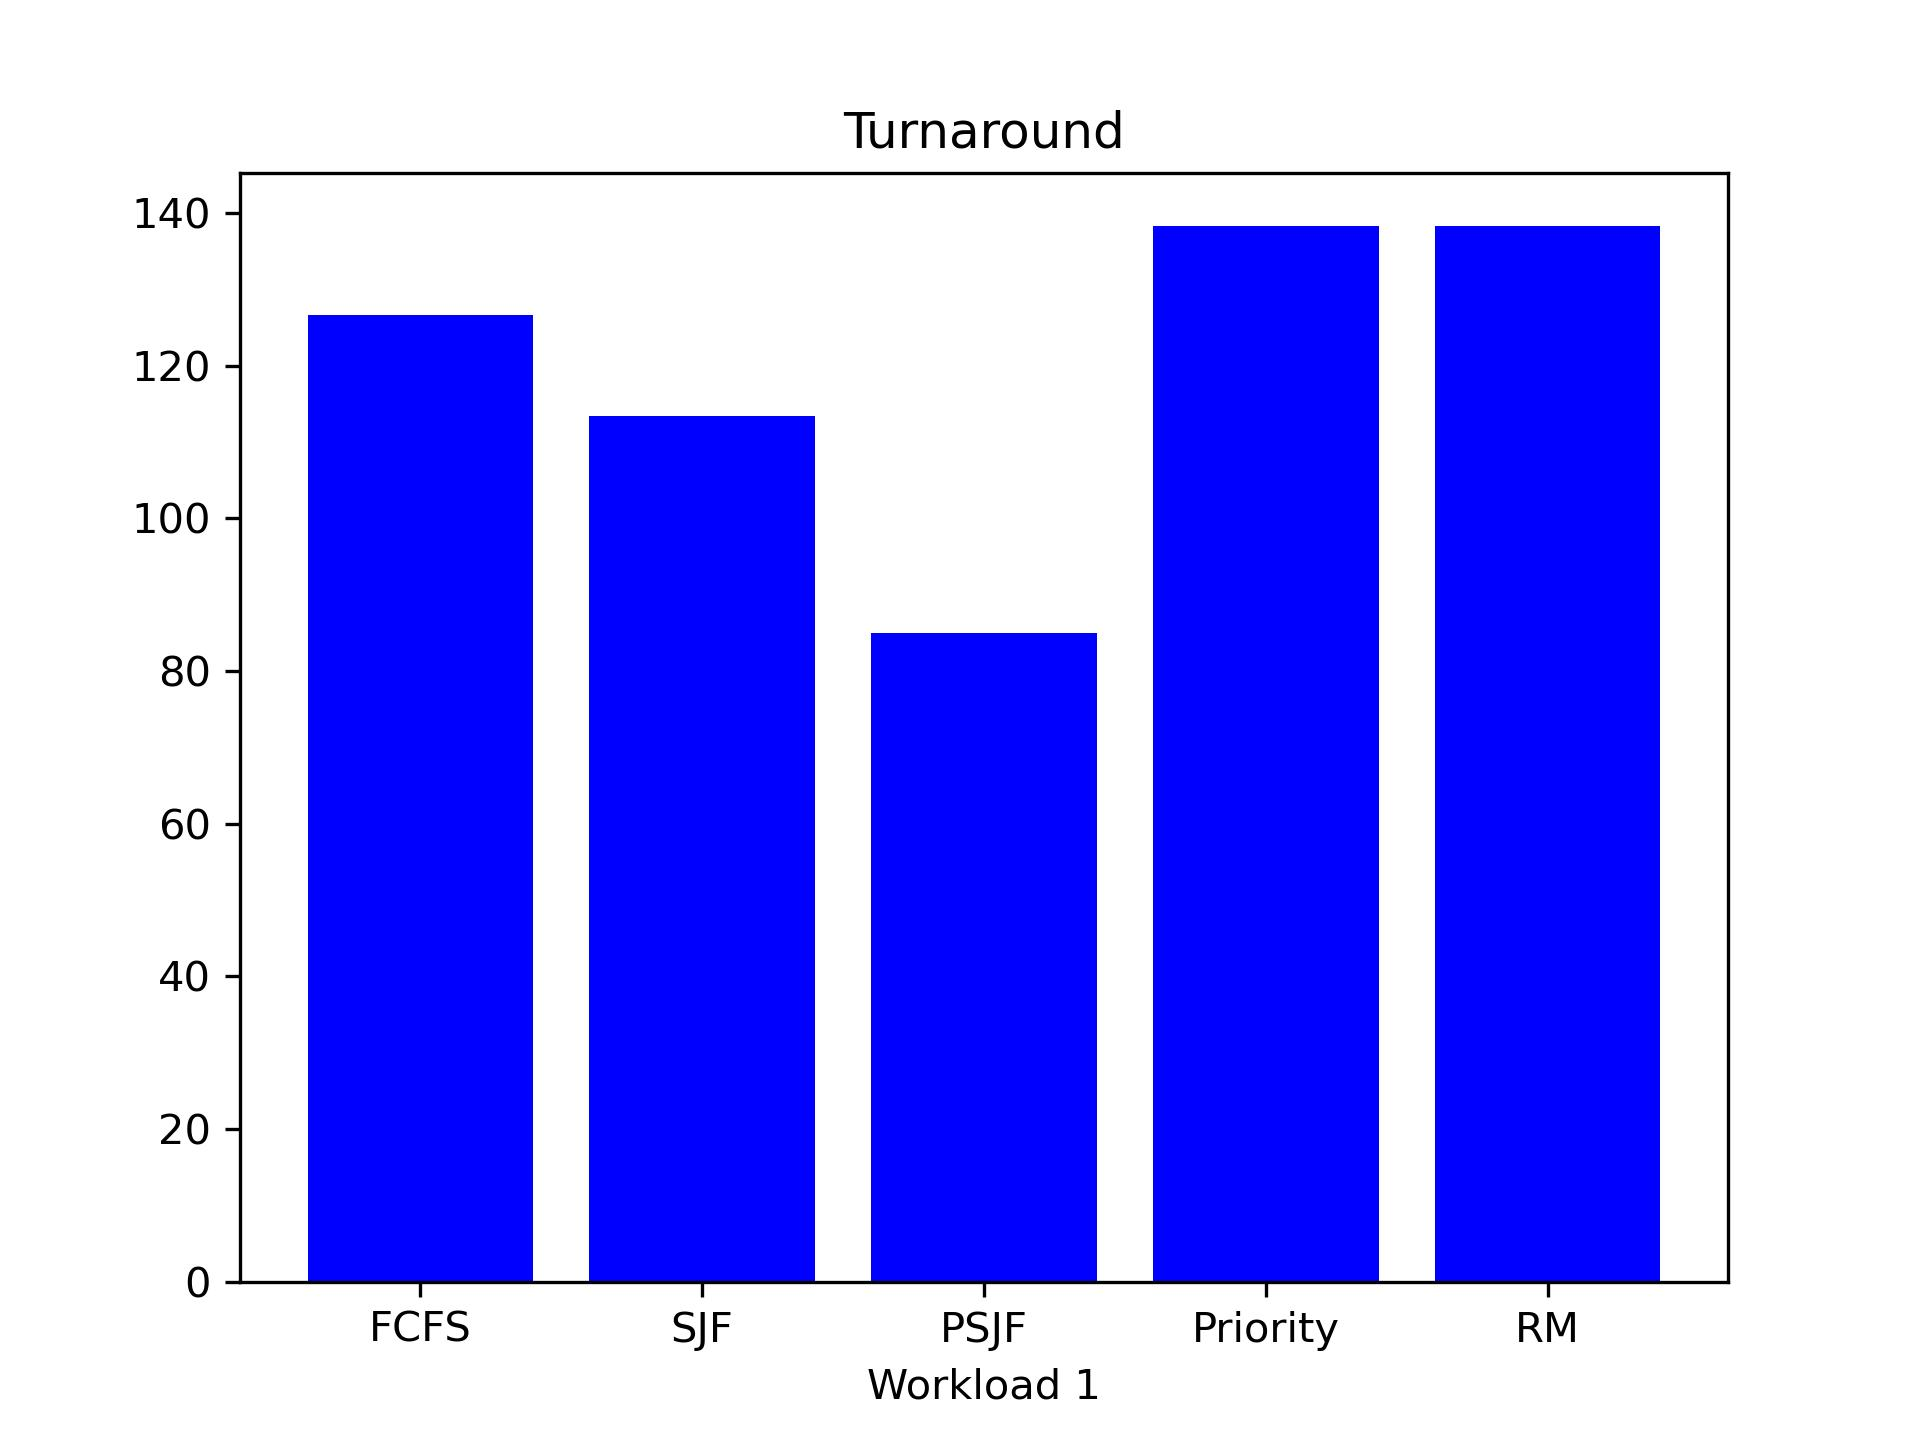
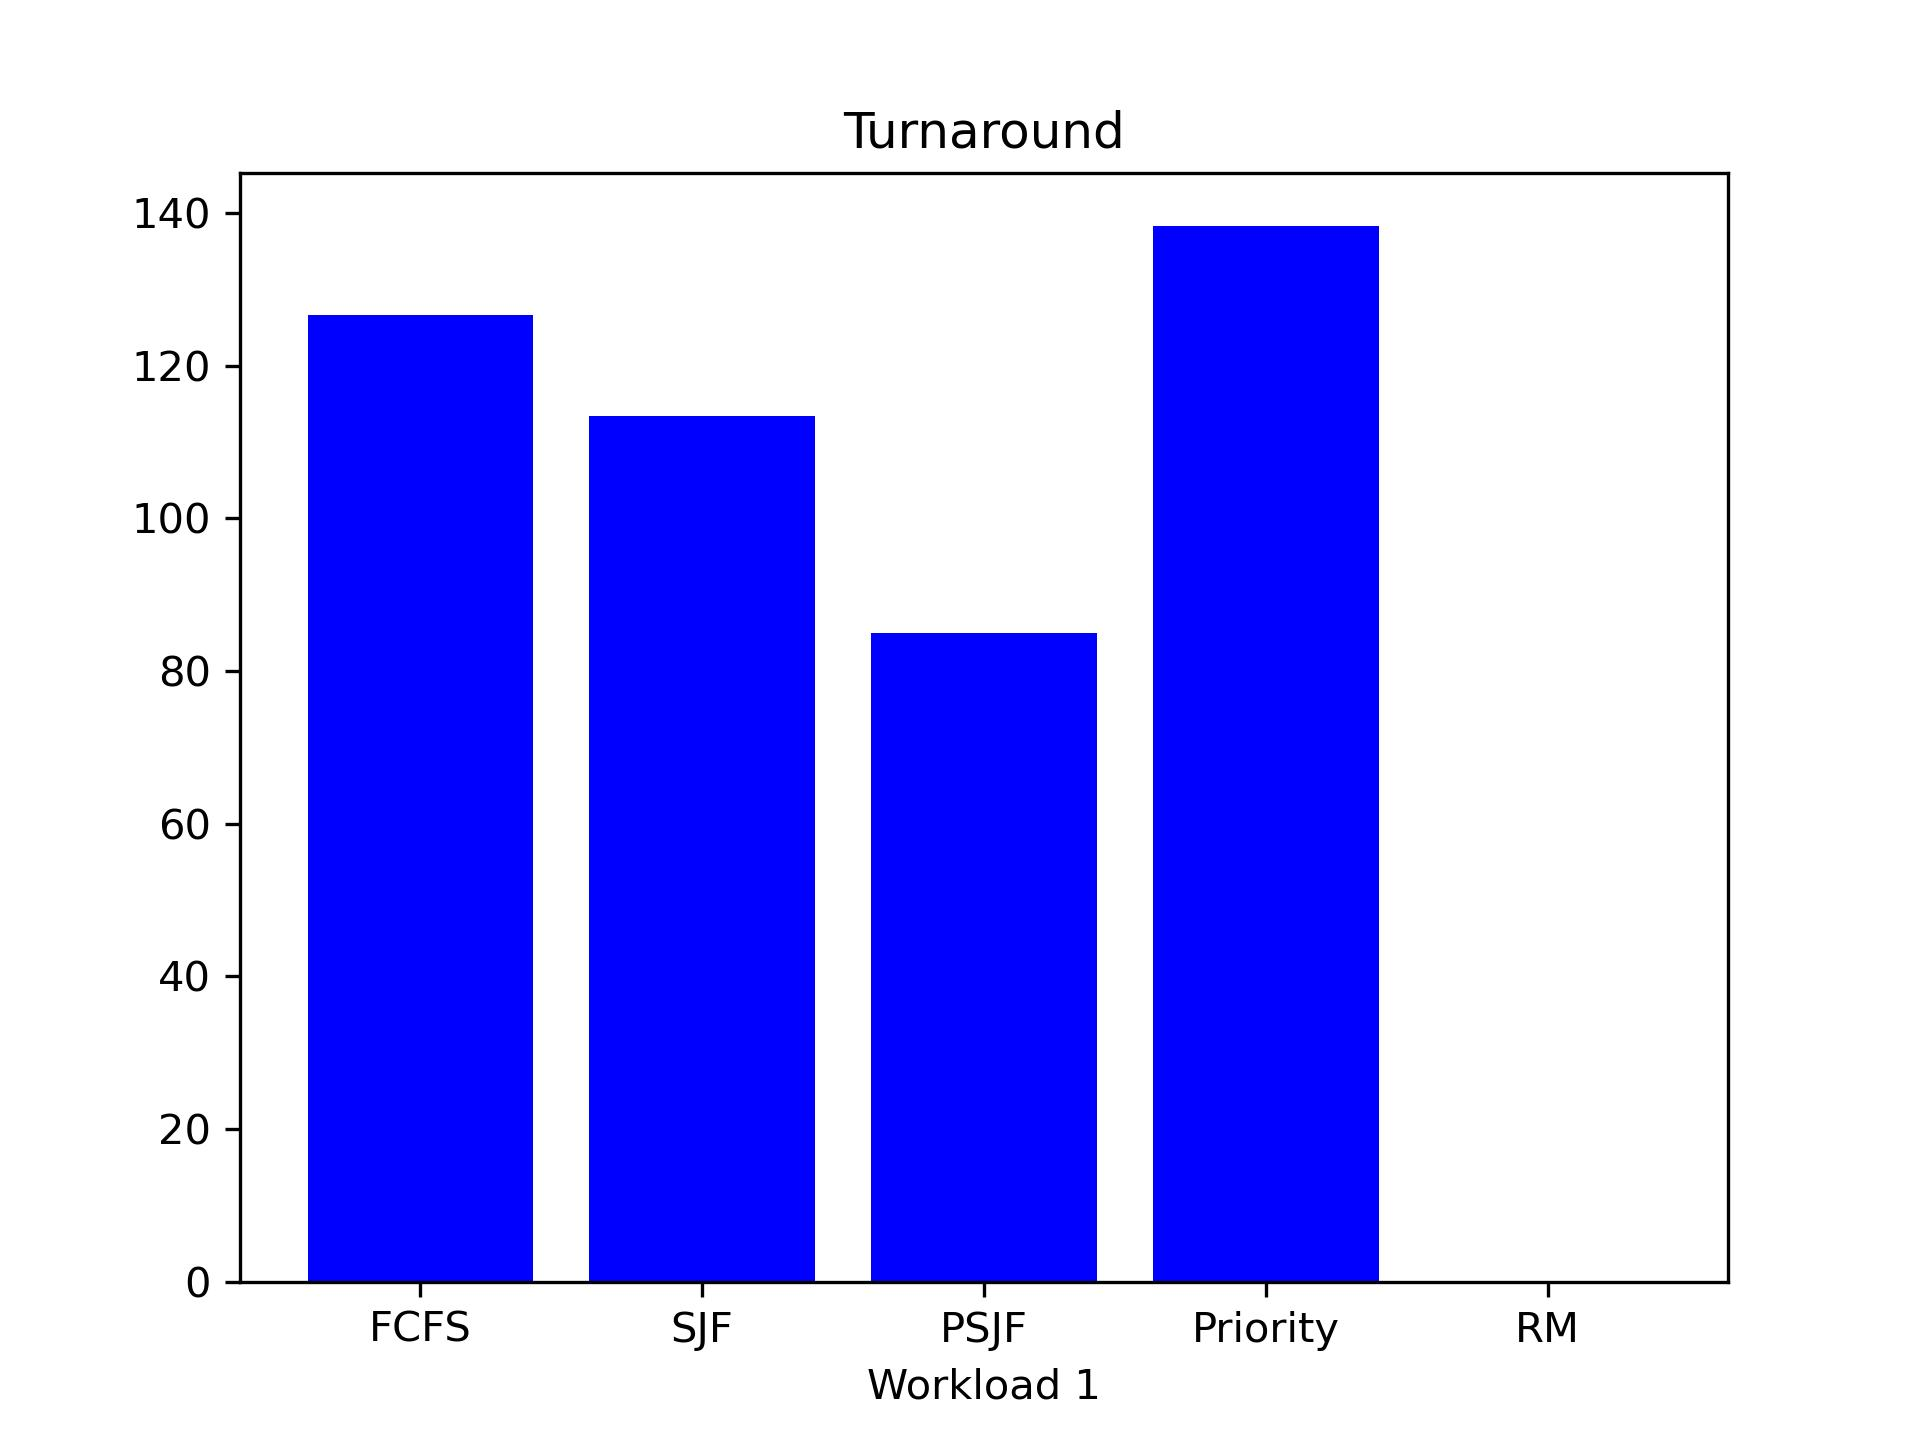
Response stats & IsPeriodic

Changed region(s): [[0.75, 0.1562, 0.875, 0.9062]]

diff --git a/main.go b/main.go
@@ -1,11 +1,13 @@
 package main
 
 import (
-	"fmt"
 	"sim/core"
 	"sim/cpu"
 	"sim/log"
+	"sim/math"
 	"sim/sched"
+
+	"fmt"
 )
 
 func addJobs(workload *[][]core.Proc) {
@@ -21,7 +23,6 @@ func main() {
 		sched.NewSJF("SJF"),
 		sched.NewPSJF("PSJF"),
 		sched.NewPriority("Priority"),
-		// TODO:
 		sched.NewRM("RM"),
 		// sched.NewEDF("EDF"),
 		// sched.NewSJF("RR"),
@@ -34,6 +35,16 @@ func main() {
 		fmt.Printf("Testing %s\n", algo.GetName())
 		fmt.Println("============")
 		for i, jobs := range workload {
+			duration := -1
+			if algo.IsRealTime() {
+				duration = 0
+				for _, job := range jobs {
+					duration = math.LCM(duration, job.Period)
+				}
+			}
+
+            log.Debug("LCM: %d\n", duration)
+
 			fmt.Printf("Workload %d:\n", i)
 
 			cpu := cpu.NewCPU(algo)
@@ -45,9 +56,13 @@ func main() {
 				}
 
 				cpu.Tick()
+
+				if duration != -1 && cpu.GetTimer() >= duration {
+					break
+				}
 			}
 
-			log.Assert(cpu.Procs.Len() == 0, "CPU hasn't finished its jobs")
+			// log.Assert(cpu.Procs.Len() == 0, "CPU hasn't finished its jobs")
 
 			fmt.Printf("Usage: %.2f%%\n", cpu.Usage())
 			fmt.Printf("Turnaround time: %.2f\n", cpu.TurnaroundTime())

diff --git a/sched/edf.go b/sched/edf.go
@@ -13,8 +13,13 @@ func (self EDF) GetName() string {
 }
 
 func (self EDF) Cmp(first, other core.Proc, time int) bool {
-	return first.ParentPeriod-(time%first.ParentPeriod) < other.ParentPeriod-(time%other.ParentPeriod)
+	return first.Period-(time%first.Period) < other.Period-(time%other.Period)
 }
+
+func (self EDF) IsRealTime() bool {
+	return true
+}
+
 func (self EDF) IsPreemptive() bool {
 	return true
 }

diff --git a/sched/rate_monotonic.go b/sched/rate_monotonic.go
@@ -11,11 +11,17 @@ type RM struct {
 func (self RM) GetName() string {
 	return self.Name
 }
+
 func (self RM) IsPreemptive() bool {
 	return true
 }
+
+func (self RM) IsRealTime() bool {
+    return true
+}
+
 func (self RM) Cmp(first, second core.Proc, time int) bool {
-	return first.ParentPeriod < second.ParentPeriod
+	return first.Period < second.Period
 }
 func NewRM(name string) RM {
 	return RM{

diff --git a/core/proc.go b/core/proc.go
@@ -7,9 +7,8 @@ type Proc struct {
 	Arrive    int
 	Priority  int
 
-	// for the real-time algorithms, we'll need to know how often it's made
 	// if this value is -1 it means that the process doesn't have a period
-	ParentPeriod int
+	Period int
 }
 type ProcGenerator struct {
 	Id     int

diff --git a/sched/fcfs.go b/sched/fcfs.go
@@ -15,6 +15,9 @@ func (self FCFS) GetName() string {
 func (self FCFS) IsPreemptive() bool {
 	return false
 }
+func (self FCFS) IsRealTime() bool {
+    return false
+}
 
 func (self FCFS) Cmp(first, other core.Proc, time int) bool {
 	return first.Arrive < other.Arrive

diff --git a/sched/priority.go b/sched/priority.go
@@ -16,6 +16,10 @@ func (self Priority) IsPreemptive() bool {
 	return true
 }
 
+func (self Priority) IsRealTime() bool {
+	return false
+}
+
 func (self Priority) Cmp(first, other core.Proc, time int) bool {
 	return first.Priority < other.Priority
 }

diff --git a/sched/psjf.go b/sched/psjf.go
@@ -16,6 +16,10 @@ func (self PSJF) IsPreemptive() bool {
 	return true
 }
 
+func (self PSJF) IsRealTime() bool {
+    return false
+}
+
 func (self PSJF) Cmp(first, other core.Proc, time int) bool {
 	return first.Burst < other.Burst
 }

diff --git a/sched/sjf.go b/sched/sjf.go
@@ -16,6 +16,10 @@ func (self SJF) IsPreemptive() bool {
 	return false
 }
 
+func (self SJF) IsRealTime() bool {
+    return false
+}
+
 func (self SJF) Cmp(first, other core.Proc, time int) bool {
 	return first.Burst < other.Burst
 }

diff --git a/histograms.py b/histograms.py
@@ -18,7 +18,6 @@ def plot_workload(name, metric, listAlgs, listTimes, hist_color):
     plt.savefig(save_path, format="jpg", dpi=300)
     plt.clf()
 
-    
 class Workload:
     algorithms = []
     usages = []

diff --git a/sched/algo.go b/sched/algo.go
@@ -7,5 +7,6 @@ import (
 type Scheduler interface {
 	GetName() string
 	IsPreemptive() bool
+	IsRealTime() bool
 	Cmp(first, other core.Proc, time int) bool
 }
